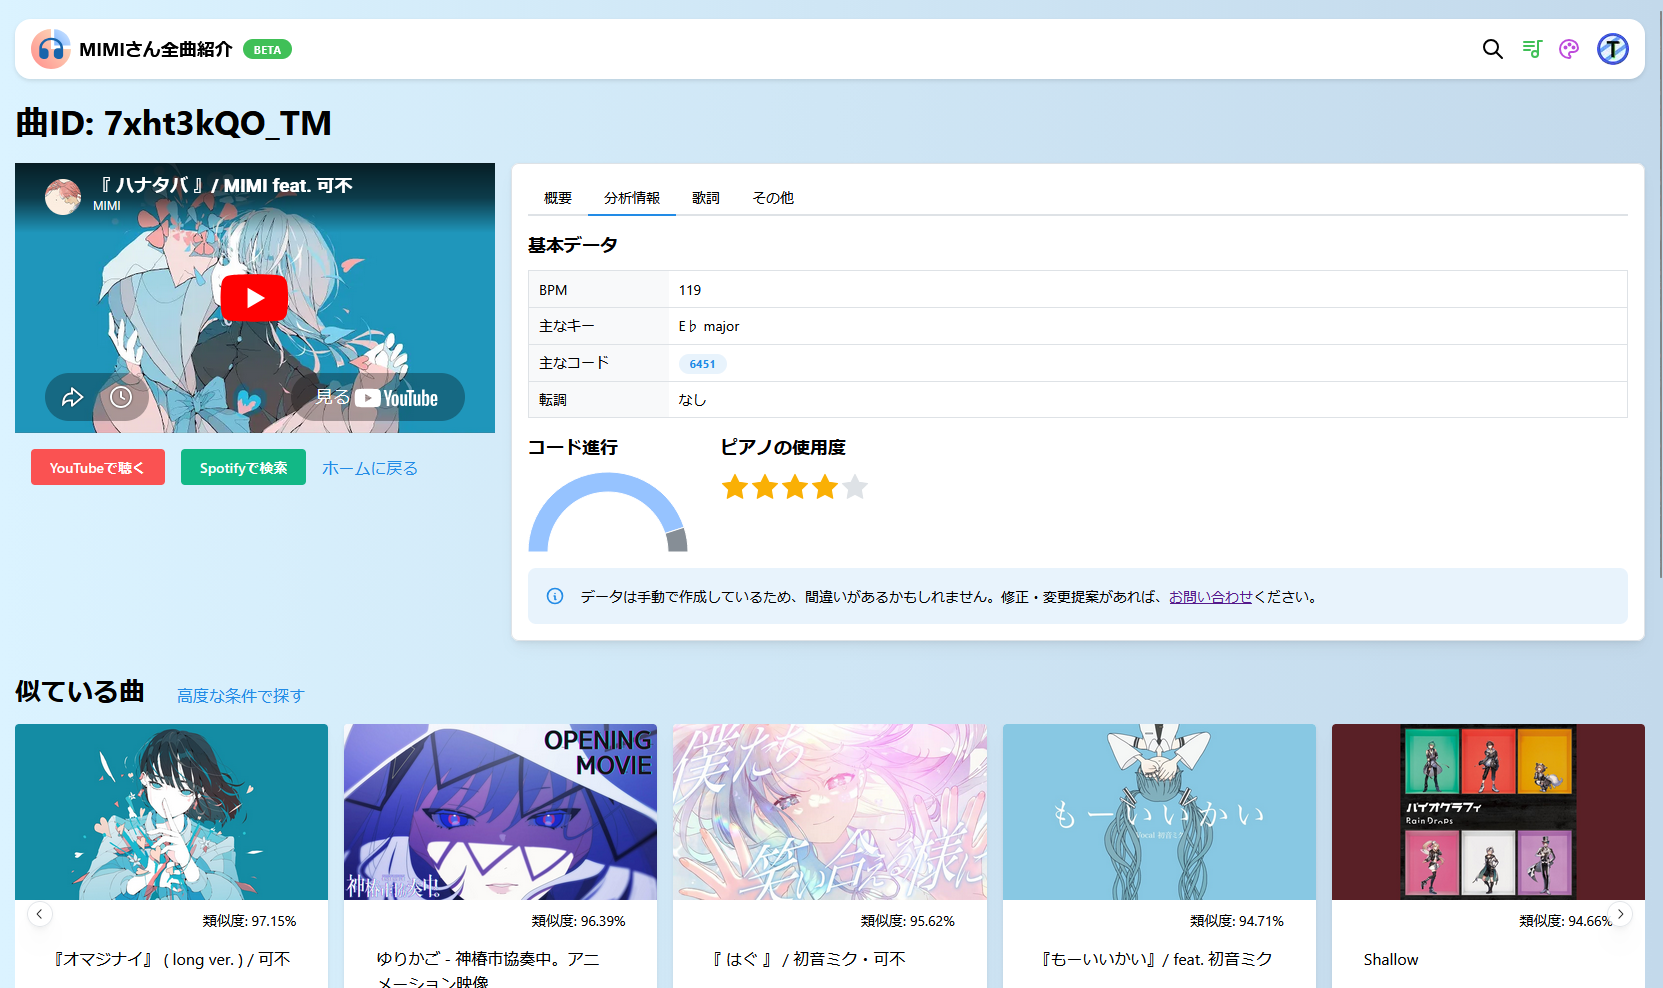
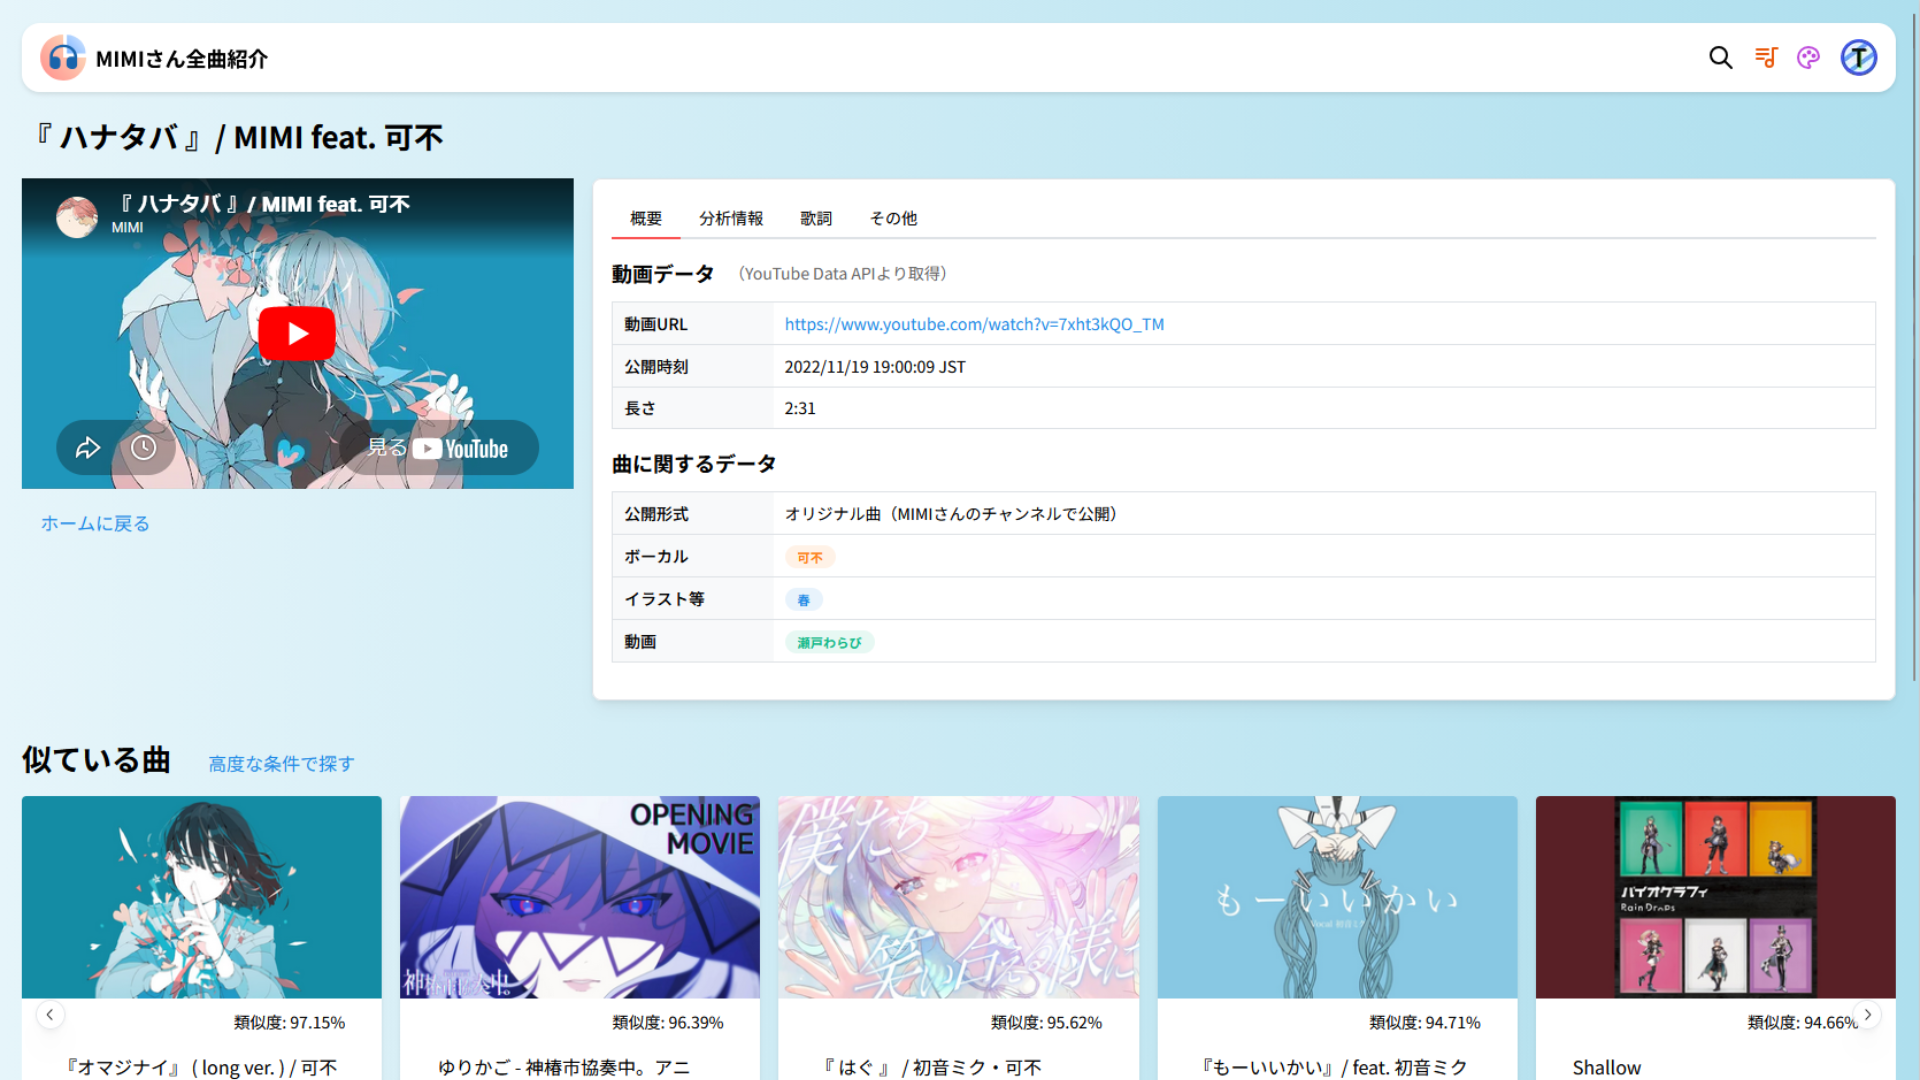
update: release feature-design

diff --git a/src/app/(root)/page.tsx b/src/app/(root)/page.tsx
@@ -1,5 +1,17 @@
 import MyAppShell from "@/components/appshell/myAppshell";
-import { Alert, Anchor, Flex, Grid, GridCol, Image, Paper, Text, Title } from "@mantine/core";
+import {
+    Alert,
+    Anchor,
+    Divider,
+    Flex,
+    Grid,
+    GridCol,
+    Group,
+    Image,
+    Paper,
+    Text,
+    Title,
+} from "@mantine/core";
 import { FadeInUp } from "@/components/animatedContents";
 import { PinnedAnnouncements } from "@/components/announcements/manager";
 import { Song, SongWithScore } from "@/lib/songs/types";
@@ -45,18 +57,6 @@ export default async function HomePage() {
     return (
         <MyAppShell>
             <PinnedAnnouncements />
-            <Alert
-                icon={<IconFlaskFilled />}
-                title="このサイトはベータ版です"
-                color="green"
-                mb="lg"
-            >
-                <Text>
-                    サイトデザインの変更・おすすめ曲診断などの新機能を予定しています。ご意見があれば「お問い合わせ」でお気軽にご連絡ください。
-                </Text>
-                <Text>アップデートは3月下旬～4月上旬ごろの予定です！</Text>
-            </Alert>
-
             <Grid mb="md">
                 <GridCol span={{ base: 12, sm: 6 }} p="md">
                     <Text
@@ -103,7 +103,6 @@ export default async function HomePage() {
                     </Paper>
                 </GridCol>
             </Grid>
-
             <Grid mb="md">
                 <GridCol span={{ base: 12, sm: 4 }} p="md">
                     <Title order={2} mb="md">
@@ -123,7 +122,6 @@ export default async function HomePage() {
                     />
                 </GridCol>
             </Grid>
-
             <Grid mb="md">
                 <GridCol span={{ base: 12, sm: 4 }} p="md">
                     <Title order={2} mb="md">
@@ -143,7 +141,6 @@ export default async function HomePage() {
                     />
                 </GridCol>
             </Grid>
-
             <Title order={2} mb="md" mt="md">
                 「MIMIさん全曲紹介」の機能
             </Title>
@@ -189,9 +186,15 @@ export default async function HomePage() {
                     icon={<IconRobotOff size={40} color="#1c7ed6" />}
                 />
             </Flex>
-            <Anchor component={Link} href="/home" mb="xl">
-                旧トップページへ
-            </Anchor>
+            <Divider mb="xl" />
+            <Group gap="xl">
+                <Anchor component={Link} href="/contact">
+                    お問い合わせ・ご意見
+                </Anchor>
+                <Anchor component={Link} href="/home">
+                    旧トップページへ
+                </Anchor>
+            </Group>
         </MyAppShell>
     );
 }

diff --git a/src/app/songs/[id]/page.tsx b/src/app/songs/[id]/page.tsx
@@ -1,9 +1,9 @@
 import MyAppShell from "@/components/appshell/myAppshell";
-import { Alert, Anchor, Box, Button, Divider, Flex, Paper, Text, Title } from "@mantine/core";
+import { Alert, Anchor, Box, Divider, Flex, Paper, Text, Title } from "@mantine/core";
 import Link from "next/link";
 import ReactPlayer from "react-player";
 import NearestSongsCarousel from "@/components/songCards/cardsCarousel";
-import { IconAlertTriangle, IconExclamationCircle, IconFlaskFilled } from "@tabler/icons-react";
+import { IconAlertTriangle, IconExclamationCircle } from "@tabler/icons-react";
 import {
     fetchAllSongs,
     fetchNearestSongs,
@@ -177,16 +177,6 @@ export default async function SongPage({ params }: { params: Promise<{ id: strin
                 コメント
             </Title>
             <Paper p="md" radius="md" shadow="xs">
-                <Alert color="green" icon={<IconFlaskFilled />} mb="md">
-                    <Text size="sm">コメント機能は現在ベータ版として公開しています。</Text>
-                    <Text size="sm">
-                        不適切なコメントを見つけたら、
-                        <Anchor href="/contact" component={Link}>
-                            お問い合わせ
-                        </Anchor>
-                        からご報告をお願いいたします。
-                    </Text>
-                </Alert>
                 <NewCommentCard songID={song.id} />
 
                 {comments.length > 0 ? (

diff --git a/src/app/songs/[id]/infoTabs.tsx b/src/app/songs/[id]/infoTabs.tsx
@@ -409,7 +409,12 @@ export default function InfoTabs({ song }: { song: Song }) {
                 </Button>
                 {userRole === "admin" && (
                     <>
-                        <Button component={Link} href={`/songs/edit?id=${song.id}`} color="blue">
+                        <Button
+                            ml="md"
+                            component={Link}
+                            href={`/songs/edit?id=${song.id}`}
+                            color="blue"
+                        >
                             データの編集
                         </Button>
                     </>

diff --git a/src/components/announcements/data.ts b/src/components/announcements/data.ts
@@ -75,6 +75,14 @@ export const data: Announcement[] = [
         pinnedToTop: true,
     },
     {
+        id: "feature_005",
+        title: "春の大型アップデート！",
+        content:
+            "UIの改善や、さまざまな機能の追加が行われました！\n詳しい内容は[こちらのお知らせ](/docs/announcements/feature_005)をご覧ください！",
+        expiresDate: 1774969200,
+        pinnedToTop: true,
+    },
+    {
         id: "survey_001",
         title: "お知らせ",
         content:

diff --git a/src/components/appshell/myAppshell.tsx b/src/components/appshell/myAppshell.tsx
@@ -173,7 +173,6 @@ export default function MyAppShell({
                                 </Text>
                             </Flex>
                         </Link>
-                        <Badge color="green">BETA</Badge>
                         {process.env.NEXT_PUBLIC_IS_DEVELOPMENT === "true" && (
                             <Badge color="orange">DEV</Badge>
                         )}

diff --git a/public/docsFiles/announcements/feature_005.md b/public/docsFiles/announcements/feature_005.md
@@ -1,0 +1,41 @@
+# 春の大型アップデート！
+MIMIさん全曲紹介にさまざまな機能が追加されました！
+ここでは、アップデートで追加・変更された機能を説明します。
+
+## UIの改善・カラーテーマ実装
+背景色の追加・フォントの変更など、デザインを強化しました！
+また、カラーテーマを追加し、さまざまなテーマから選べるようになりました！
+
+右上のアイコン（PCの場合はパレットアイコン、スマホの場合はユーザーアイコン）から、テーマを変更できます。
+背景と重なって文字が見にくい場合や、他にほしいテーマの提案などがあれば、お気軽に[お問い合わせ](/contact)から教えてください！
+
+## おすすめ曲診断
+[おすすめ曲診断](/recommend)を実装しました！
+約20問の質問に答えるだけで、あなたにおすすめの曲がわかります。
+結果をぜひXなどでシェアしてくださると嬉しいです！
+
+## コメント機能
+各曲にコメントができるようになりました！
+ログインしていない場合でも自動でゲストアカウントが作成され、コメントが可能です。
+
+SNSアカウントと連携してログインすると、
+- アイコン・名前の変更
+- コメントの編集・削除
+- URLがついたコメントの投稿
+
+ができるようになります。
+また、この機能の追加に伴って、新たにXアカウントでのログインもできるようになりました！
+ぜひログインして使ってみてください！
+
+## その他
+その他、さまざまな機能の追加・バグ修正をしています。
+- トップページの構成を変更（[旧トップページ](/home)も残してあります）
+- 詳細ページのページ構成を一部変更
+- 検索条件の削除時に、自動ですべての結果を再表示
+- 検索条件を変更すると結果が表示されなくなるバグの修正
+
+
+バグを発見された際は、ぜひお気軽に[お問い合わせ](/contact)でご連絡いただければ幸いです。
+今後ともMIMIさん全曲紹介をよろしくお願いいたします。
+
+2026年3月6日 たーけ(takechi)
